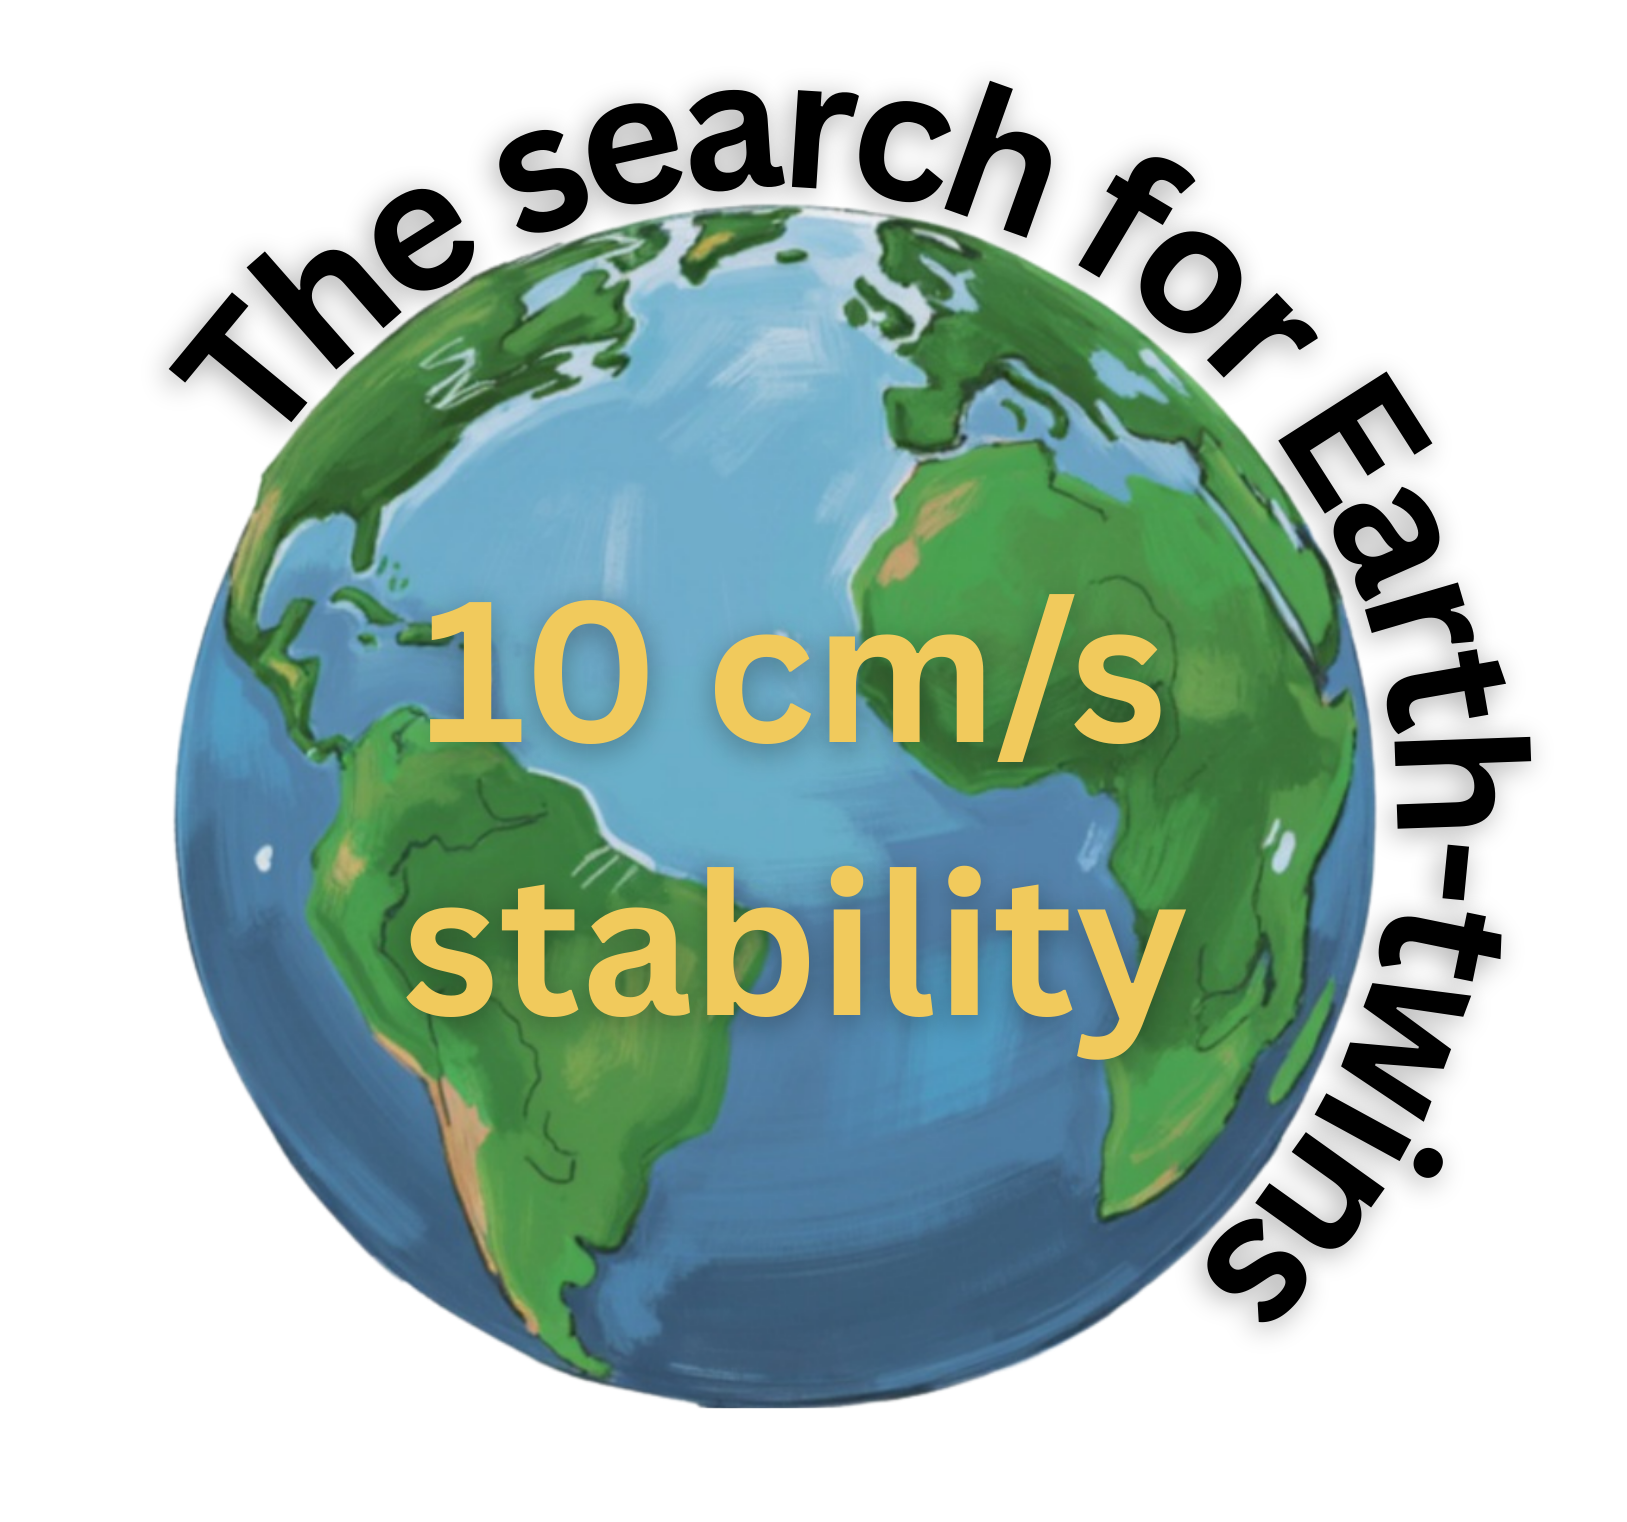
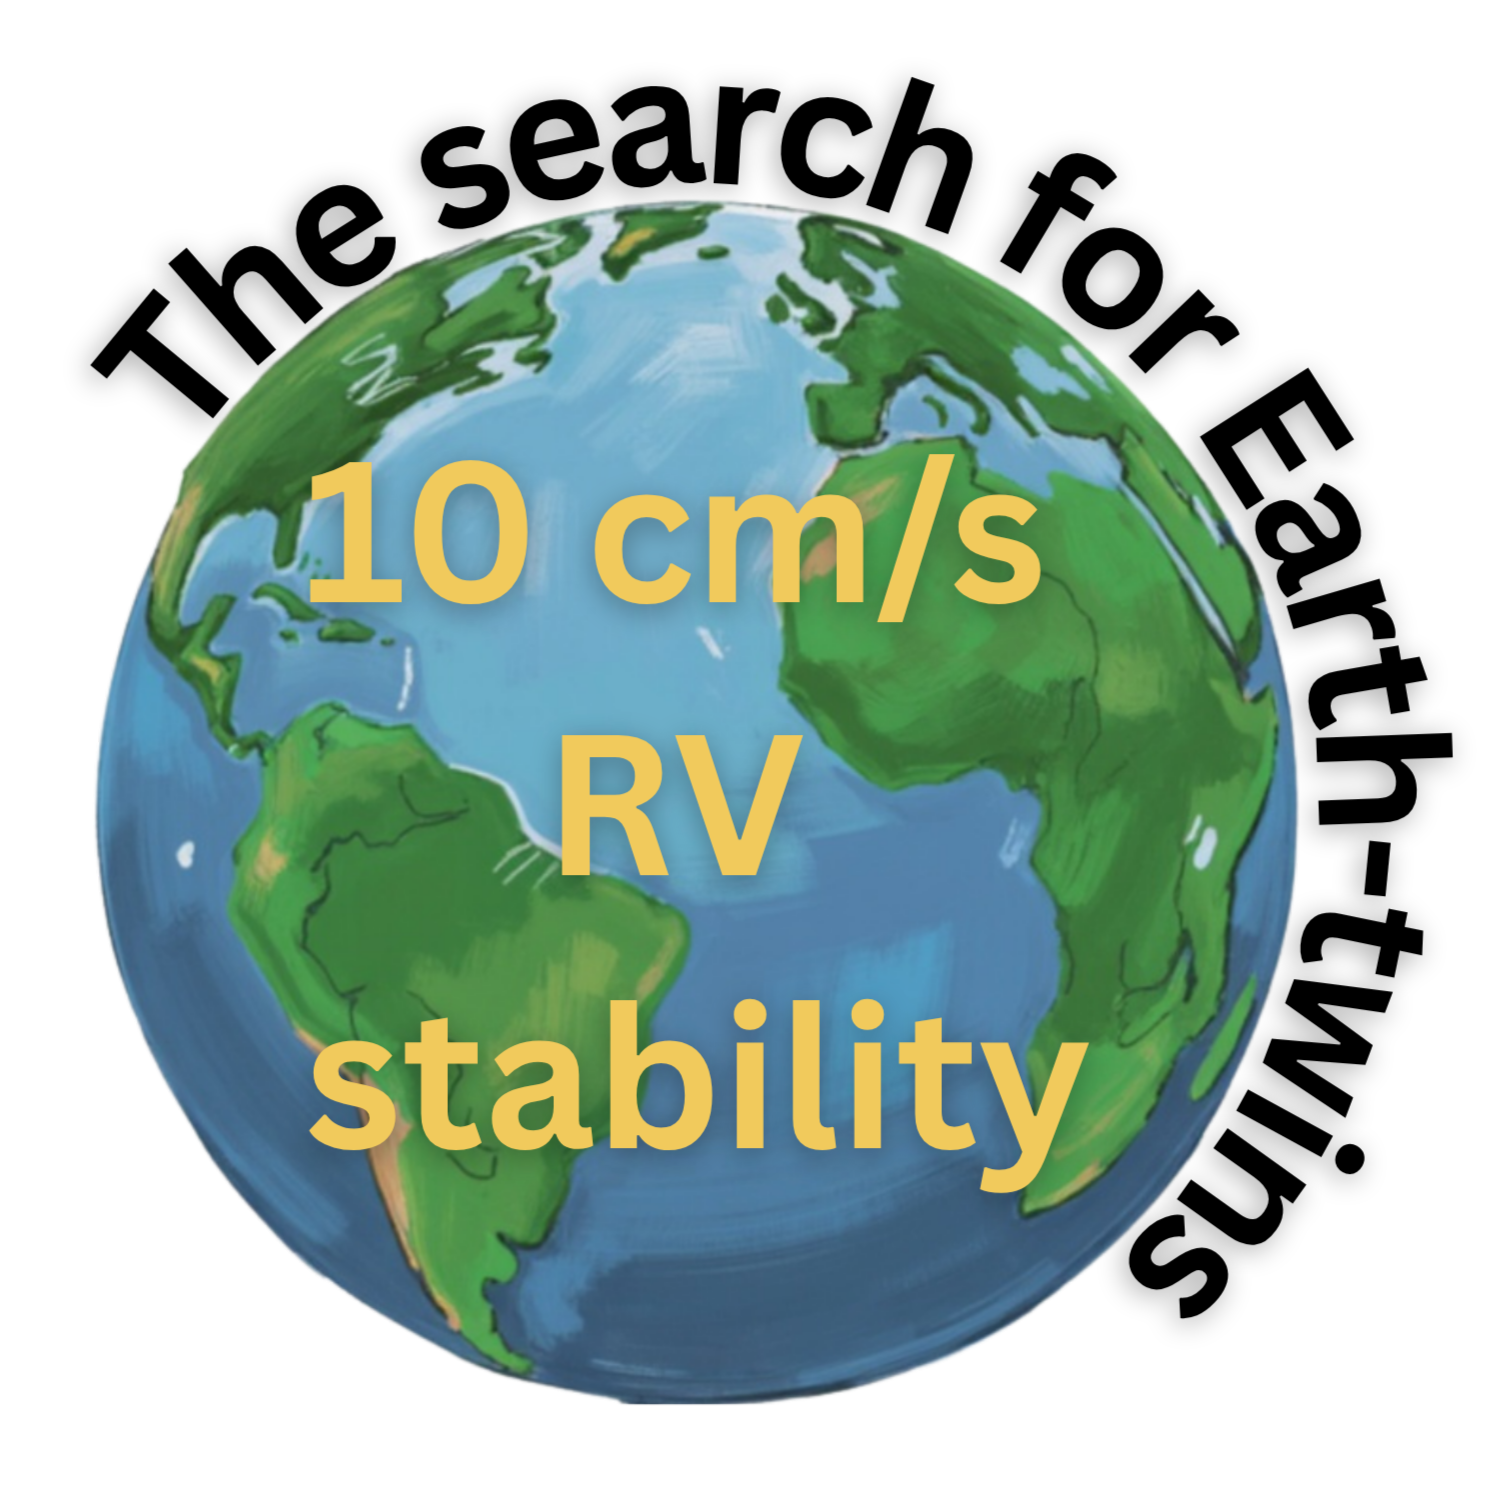
aboras page update

diff --git a/projects/ABORAS/ABORAS.html b/projects/ABORAS/ABORAS.html
@@ -25,6 +25,23 @@
 
             <!-- TEXT HERE  -->
             <h2>Understanding stellar variability with polarimetric Sun-as-a-star observations</h2>
+
+            <!-- overview -->
+            <details>
+              <summary>Overview of ABORAS</summary>
+              <p>
+                <br>
+                Polarimetric observations of the Sun are key to understanding magnetic variability in Solar-type stars, currently the limiting factor in small exoplanet detection. 
+                We often do not have the required cadence and signal-to-noise to study distant stars, whose signals are also likely entangled with planetary signals. 
+                ABORAS takes full advantage of the HARPS3 spectrograph, obtaining unresolved stable spectropolarimetric data of the Solar disc for the first time. 
+                <br><br>
+                This will improve our understanding of stellar activity and the line-of-sight magnetic field and inform mitigation techniques. 
+                With the 10 cm/s stability of HARPS3, these polarimetric observations will give us a better understanding of the activity of FGK stars– paving the way for the discovery of Earth-sized planets around Solar-type stars. 
+                ABORAS will serve as a benchmark for small exoplanet detection and stellar activity mitigation.
+                <br><br>
+              </p>
+            </details>
+
             <!-- intro  -->
             <h3>The search for Earth-twins</h3>
             <div class="container">
@@ -34,11 +51,41 @@
                 The significance of this number is that if an alien observer lightyears away from us were to view our Solar system with HARPS3, they would have the required precision to detect the Earth!
                 HARPS3 is the new powerhouse instrument of the aptly named <i>Terra Hunting Experiment</i>, or THE.
                 The THE will have half of all observing time with HARPS3 for a period of 10 years, allowing for an extended RV survey in the coming years.
+                <br><br>
               </div>
+
               <div class="image">
                 <img src="search_10cms.png" style="width: 100%;" />
               </div>
             </div>
+
+            <details class="extraDetails">
+                <summary class="extraDetailsSummary">What's the point?</summary>
+                <p class="extraDetailsP">
+                  <br>
+                  For millennia, the planets within our Solar System were the sum total of planets in the Universe from a human perspective. 
+                  Mercury, Venus, Earth, Mars, Jupiter, Saturn, Uranus, Neptune (and Pluto of course) - each planet is vastly different in size, composition, colour, profile - the list goes on. 
+                  And yet, the Sun is but one star in hundreds of billions in the Milky Way alone. 
+                  Our galaxy itself is one of perhaps trillions. 
+                  The mind is led by these facts to attempt to conceptualise the diversity of planets in orbit of other stars out there in the Universe.
+                  <br><br>
+                  These extra-solar planets (exoplanets) have been the stuff of science fiction for decades. 
+                  In the scientific world, the first exoplanet was discovered in 1992 around a rapidly rotating star called a pulsar. 
+                  The first planet orbiting a star like the Sun was found not long after in 1995. 
+                  51 Peg b (<a href="https://ui.adsabs.harvard.edu/abs/1995Natur.378..355M/abstract">Mayor & Queloz, 1995</a>) is a Jupiter-sized planet which orbits its host star once every 4 days.
+                  <br><br>
+                  As of March 2026, more than 6,000 exoplanets have been discovered with the number increasing every day. 
+                  There are three main reasons that astronomers have devoted time to the search for exoplanets. 
+                  The first is to compare the planets we know in our Solar System with those around other stars. 
+                  Is our Solar System unique? Is the Earth unique? Are we unique? Are there planets arranged in the same way as our Solar System? 
+                  How do we compare with the rest of creation?
+                  <br><br>
+                  The second point is to understand how planets form. 
+                  Understanding this physics helps us learn more about the physical laws which govern the Universe, and understand more about our place within it. 
+                  The third, of course, is to search for evidence of life beyond our own planet and measure the conditions and frequency which life arises.
+                  <br><br>
+                </p>
+              </details>
 
             <figure>
               <img src="../access-park.jpg" style="border-radius: 10px;" />
@@ -54,6 +101,21 @@
               Observing the Sun gives us high-cadence, high signal-to-noise data which is free from planetary signals. 
               Previous iterations (HARPS, HARPS-N) have incorporated Solar observations into their programs, making use of the instruments’ extraordinary resolving power. 
             </p>
+
+            <details class="extraDetails">
+                <summary class="extraDetailsSummary">What causes stellar variability?</summary>
+                <p class="extraDetailsP">
+                  <br>
+                  Stellar activity is the main obstacle in the detection of small planets using RV techniques.
+                  The Sun is magnetically active, and has multiple features on its surface which cause these variations.
+                  These include granules, supergranules, spots, faculae, and plages.
+                  Granules are caused by the convective motion of hot gas, leading to an effect called convective blueshift.
+                  Spots and faculae are caused my variations in the magnetic field, creating dimmer and brighter regions on the surface.
+                  <br><br>
+                  Granulation, supergranulation, and magnetic features all cause RV variations on different timescales and magnitudes.
+                  <br><br>
+                </p>
+              </details>
 
             <figure>
               <img src="solar_vs_earth_signal.png" class="center" />
@@ -91,12 +153,13 @@
              </p> -->
 
             <!-- ABORAS  -->
-            <h3>ABORAS</h3>
+            <!-- <h3>ABORAS</h3> -->
+            <img src="ABORAS_logo_transparent.png" style="width: 150px; margin-left: 5%;" />
 
-            <figure>
+            <!-- <figure>
               <img src="../../index-ims/ABORAS-test-1.jpg" style="border-radius: 10px;" />
               <figcaption>Components of ABORAS during testing at the University of Birmingham.</figcaption>
-            </figure>
+            </figure> -->
 
             <p>
                 ABORAS will make use of HARPS3 during the daylight hours, taking polarimetric data of the Sun.

diff --git a/styles.css b/styles.css
@@ -65,6 +65,7 @@ img {
 
 figure {
     width: 90%; 
+    margin-left: 5%;
     margin-top: 20px; 
     margin-bottom: 20px;
 }
@@ -237,7 +238,8 @@ footer {
         }
 
             .sidenav li a:hover {
-                color: #003022;
+                /* color: #003022; */
+                color: #b3d4c8;
             }
 
 /* navigation menu links */
@@ -251,7 +253,8 @@ footer {
 
         /* When you mouse over the navigation links, change their color */
         .sidenav a:hover {
-            color: #003022;
+            /* color: #003022; */
+            color: #b3d4c8;
         }
   
   /* Style page content */
@@ -292,7 +295,8 @@ footer {
             }
 
                 .main nav li a:hover {
-                    color: #003022;
+                    /* color: #003022; */
+                    color: #b3d4c8;
                 }
     .main .cardContainer {
         padding: 10px 10px;
@@ -1097,21 +1101,45 @@ a:hover circle {
 
 
 /* toggles */
+details {
+    margin-left: 5%;
+    width: 90%;
+}
+
 details > summary {
+    color: #001020;
+    font-weight: bold;
     width: fit-content;
     padding: 10px 10px;
-    background-color: #ffffffaa;
+    /* margin-left: 5%; */
+    background-color: #00102020;
     box-shadow: 4px 4px 4px #00000050;
     border: none;
     cursor: none;
   }
   
   details > p {
-    background-color: #eeeeee;
+    /* background-color: #eeeeee; */
+    background-color: #fff8e7;
+    color: #001020aa;
+    font-style: italic;
     padding: 4px;
-    margin: 0;
-    box-shadow: 1px 1px 2px #bbbbbb;
+    /* margin-left: 2%; */
+    box-shadow: 2px 2px 4px #bbbbbb;
   }
+    .extraDetails { /* the little extra bits */
+        margin-left: 7%;
+        width: 86%;
+    }
+    .extraDetailsSummary {
+        border-radius: 10px;
+        background-color: #fff8e7;
+    }
+    .extraDetailsP {
+        border-radius: 10px;
+    }
+
+
 
 .placeLink {
     font-size: small; 